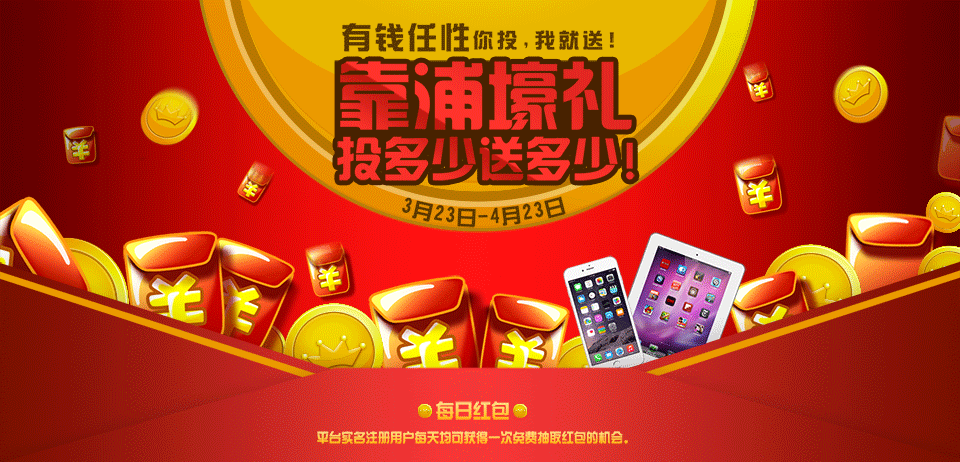
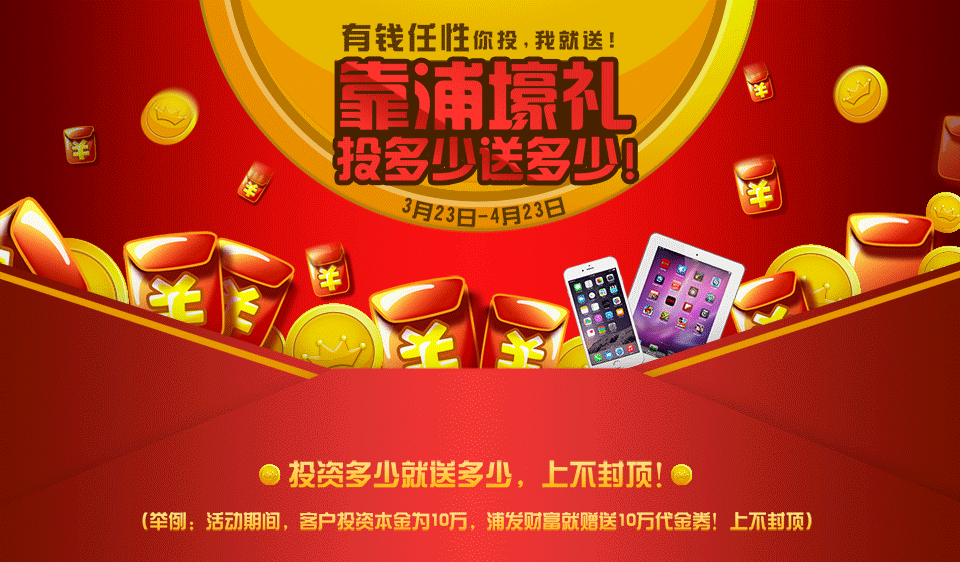
修改抽奖页面样式大图

diff --git a/app/Tpl/red/page/choujiang.html b/app/Tpl/red/page/choujiang.html
@@ -16,7 +16,6 @@
 <!--抽奖js-->
 <script type="text/javascript" src="{$TMPL}/lottery/lottery.js"></script>
 <script type="text/javascript" src="{$TMPL}/lottery/every_lottery.js"></script>
-<script type="text/javascript" src="http://vip.hxlif.com/code/1/202538_291.js" charset="utf-8"></script><!--------------------抓取代码-------------->
 <script type="text/javascript" src="{$TMPL}/js/jquery-1.4.4.min.js"></script>
 <script type="text/javascript" src="{$TMPL}/js/index_.js"></script>
 <?php
@@ -110,38 +109,42 @@ var send_span = {function name="app_conf" v="SEND_SPAN"}000;
 </script>
 
 <style>
-.cj { width:100%; height:1320px; margin-top:40px; background:#770d00;}
-	.cj_wraper { width:960px; height:1320px; margin:0 auto; background:url({$TMPL}/images/bg_bg.png) repeat-y;}
+.cj { width:100%; height:2376px; margin-top:40px; background:#770d00;}
+	.cj_wraper { width:960px; height:2376px; margin:0 auto; background:url({$TMPL}/images/bg_bg.png) repeat-y;}
 		
-	.bg_h { width:960px; height:462px; background:url({$TMPL}/images/bg_h.png) no-repeat;}
+	.bg_h { width:960px; height:562px; background:url({$TMPL}/images/bg_h.png) no-repeat;}
 	
-	.hongbao { width:540px; height:90px; margin:0 auto; background:url({$TMPL}/images/bg_hongbao.png) no-repeat;}
-		.hongbao ul li { float:left; width:70px; height:68px; padding-left:7px; margin-top:7px;}
+	.goto_index { width:960px; height:79px;}
+		.goto_index a { display:block; width:282px; height:79px; margin:0 auto;}
+	
+	.hongbao { width:960px; height:300px; background:url({$TMPL}/images/bg_hongbao.png) no-repeat;}
+		.hongbao ul { float:left; margin-left:100px; margin-top:150px;}
+			.hongbao ul li { float:left; width:96px; height:102px; padding-left:13px; margin-top:7px;}
 			
-	.jifen { width:481px; height:188px; margin:0 auto; background:url({$TMPL}/images/bg_jifen.png) no-repeat;}
-		.jifen .my_jifen { float:left; margin-top:95px; width:463px; height:77px; color:#000; font-size:70px; font-weight:bold; text-align:right; line-height:77px; letter-spacing:18px;}
+	.jifen { width:960px; height:295px; background:url({$TMPL}/images/bg_jifen.png) no-repeat;}
+		.jifen .my_jifen { float:left; margin-top:154px; margin-left:163px; width:634px; height:118px; color:#000; font-size:95px; font-weight:bold; text-align:center; line-height:115px; letter-spacing:12px;}
 		
-	.zhuanpan { width:480px; height:203px; margin:0 auto; margin-top:3px; background:url({$TMPL}/images/bg_xuanzhuan.png) no-repeat;}
-		#lottery{width:441px;height:171px;margin:0 auto; padding-top:17px;}
-		#lottery li{ float:left; width:118px; height:53px; border:2px solid #c41f1b;}
-			#lottery .w193 { width:193px;}
+	.zhuanpan { width:733px; height:309px; margin-top:20px; background:url({$TMPL}/images/bg_xuanzhuan.png) no-repeat;}
+		#lottery{width:670px; height:249px; margin:0 auto; padding-top:25px;}
+		#lottery li{ float:left; width:180px; height:81px; border:2px solid #c41f1b;}
+			#lottery .w193 { width:295px;}
 			#lottery .fa4440 { background:#fa4440;}
 			#lottery .f9316d { background:#f9316d;}
 			#lottery .fd7414 { background:#fd7414;}
 			#lottery .ffdf00 { background:#ffdf00;}
 
 	
-	.mingdan { width:481px; height:127px; margin:0 auto; margin-top:3px; position:relative; background:url({$TMPL}/images/bg_mingdan.png) no-repeat;}
-		.mingdan .userlist { width:340px; height:80px; position:absolute; top:40px; left:15px; overflow:hidden;}
-			.userlist .scrollNews .jiangpin { border-bottom:1px solid #b62222; width:340px; height:16px;}
-				.userlist .scrollNews .jiangpin div { float:left; text-align:center; font-size:12px; line-height:16px;}
-		.mingdan .mylist { width:110px; height:80px; position:absolute; top:40px; left:355px; overflow:hidden;}
-			.mylist .scrollNews1 .my_jiangpin { border-bottom:1px solid #b62222; width:110px; height:16px;}
-				.mylist .scrollNews1 .my_jiangpin div { float:left; text-align:center; font-size:12px; line-height:16px;}
+	.mingdan { width:733px; height:194px; margin:0 auto; margin-top:20px; position:relative; background:url({$TMPL}/images/bg_mingdan.png) no-repeat;}
+		.mingdan .userlist { width:540px; height:120px; position:absolute; top:60px; left:30px; overflow:hidden;}
+			.userlist .scrollNews .jiangpin { border-bottom:1px solid #b62222; width:540px; height:20px;}
+				.userlist .scrollNews .jiangpin div { float:left; text-align:center; font-size:12px; line-height:20px;}
+		.mingdan .mylist { width:160px; height:120px; position:absolute; top:60px; left:570px; overflow:hidden;}
+			.mylist .scrollNews1 .my_jiangpin { border-bottom:1px solid #b62222; width:135px; height:20px;}
+				.mylist .scrollNews1 .my_jiangpin div { float:left; text-align:center; font-size:12px; line-height:20px;}
 			
 			
 	
-	.shuoming { width:481px; height:190px; margin:0 auto; margin-top:3px; background:url({$TMPL}/images/bg_shuoming.png) no-repeat;}
+	.shuoming { width:735px; height:528px; margin:0 auto; margin-top:30px; background:url({$TMPL}/images/bg_shuoming.png) no-repeat;}
 	
 	.black_bg { position: fixed; top: 0; left: 0; width: 100%; height: 100%; z-index: 100000; overflow:hidden; background:rgb( 0, 0, 0); background:rgba( 0, 0, 0, 0.9); filter:alpha(opacity=90); opacity:0.9rt; display:none;}
 		.prize { width:777px; height:866px; margin:0 auto; background:url({$TMPL}/images/dakai.png) no-repeat; opacity:1;}
@@ -155,6 +158,7 @@ var send_span = {function name="app_conf" v="SEND_SPAN"}000;
 <div class="cj">
 	<div class="cj_wraper">
     	<div class="bg_h"></div>
+        <div class="goto_index"><a href="http://www.pfcf88.com"><img src="{$TMPL}/images/qiekenao.png" /></a></div>
         <div class="hongbao">
 		{if $idcardpassed eq 0 ||  $mobilepassed eq 0}
         	<ul>
@@ -211,9 +215,9 @@ var send_span = {function name="app_conf" v="SEND_SPAN"}000;
                 <ul class="scrollNews">
                 	{foreach from=$zhongjiang_list item=v}
                     <li class="jiangpin">
-                        <div style="width:60px; color:#000000;">{$v.user_name}</div>
-                        <div style="width:140px; color:#ffdf00;">{$v.prize_name}</div>
-                        <div style="width:140px; color:#000000;">{function name="to_date" v="$v.log_time" f="Y-m-d "} {function name="to_date" v="$v.log_time" f="H:i"}</div>
+                        <div style="width:90px; color:#000000;">{$v.user_name}</div>
+                        <div style="width:200px; color:#ffdf00;">{$v.prize_name}</div>
+                        <div style="width:250px; color:#000000;">{function name="to_date" v="$v.log_time" f="Y-m-d "} {function name="to_date" v="$v.log_time" f="H:i"}</div>
                     </li>
                     {/foreach}
                 </ul>
@@ -223,7 +227,7 @@ var send_span = {function name="app_conf" v="SEND_SPAN"}000;
 				<ul class="scrollNews1">
 				{foreach from=$my_list item=v}
                     <li class="my_jiangpin">
-                        <div style="width:110px; color:#ffdf00;">{$v.prize_name}</div>
+                        <div style="width:135px; color:#ffdf00;">{$v.prize_name}</div>
                     </li> 
                    {/foreach}  
 				</ul>
